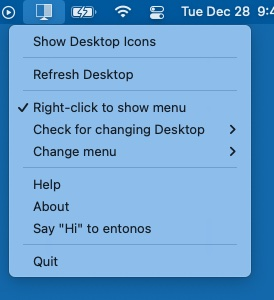
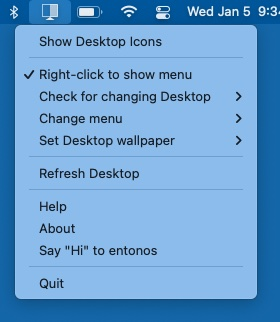
update Help

diff --git a/HideIcons/Resources/HideIcons.help/Contents/Resources/en.lproj/Welcome.html b/HideIcons/Resources/HideIcons.help/Contents/Resources/en.lproj/Welcome.html
@@ -36,11 +36,12 @@
 <img src="Welcome2.jpg" alt="" >
 </p>
 </b><p class="Left Normal"><i>Show Desktop icons</i>/<i>Hide Desktop Icons</i> toggles showing or hiding the Desktop icons.</p>
-</b><p class="Left Normal"><i>Refresh Desktop</i> forces an update of all Desktops across all screens and Spaces. This option will also cause <i>Hide Icons</i> to forget which Desktop goes with which Space (see below). </p>
 </b><p class="Left Normal">If <i>Right-click to show menu</i> is enabled, then clicking on the the menu (<img src="Welcome4.jpg" alt="" >) will toggle Show/Hide Desktop icons and right-click will open the menu. The default is the opposite behavior.
  </p>
 </b><p class="Left Normal">If <i>Check for changing Desktop</i> is set to anything other than <i>Never</i>, <i>Hide Icons</i> will update the Desktop every time interval specified. This allows for changing Desktops.  </p>
 </b><p class="Left Normal"><i>Change menu</i> allows you to hide the menu item (replaces it with a blank icon) or to completely remove the menu from the menu bar. For the latter case, one can still use Services to toggle showing/hiding icons. To get the menu back, simply re-run <i>Hide Icons</i>.  </p>
+</b><p class="Left Normal"><i>Set Desktop wallpaper</i> allows you to use either the actual Desktop wallpaper or to use a custom color wallpaper. Either for all Desktops or for individual Desktops. If you have either more than one display or more than one Space, you have multiple Desktops. </p>
+</b><p class="Left Normal"><i>Refresh Desktop</i> forces an update of all Desktops across all displays and Spaces. This option will also cause <i>Hide Icons</i> to forget which Desktop goes with which Space (see below). This is essentially a restart of <i>Hide Icons</i>. </p>
 <p class="Left Normal">
 
 <p class="Left Normal"><b>2) Services</p>
@@ -57,7 +58,7 @@
 <img src="Welcome5.jpg" alt="" >
 >Change menu>Remove menu was chosen.</p>
 
-<p class="Left Normal">If command key (⌘) is held when <i>Hide Icons</i> starts, the user defined preferences are ignored and default preferences are used instead- useful if you chose an preference you don't like. </p>
+<p class="Left Normal">If command key (⌘) is held when <i>Hide Icons</i> starts, the user defined preferences are overwritten with default preferences- useful if you chose a preference set you don't like. </p>
 
 <p class="Left Normal"><b>4) Requirements</b></p>
 <p class="Left Normal"><i>Hide Icon</i> was written in Swift with Xcode 12.4. It was compiled to support macOS 10.12 (Sierra) through 12.x (Monterey). Versions before 10.4 (High Sierra) can not detect Dark Mode switching.</p>
@@ -66,7 +67,10 @@
 <p class="Left Normal"><i>Hide Icon</i> doesn’t touch the Desktop icons. It simply takes a picture of the Desktop (without the icons) and displays this picture just above the real Desktop giving the illusion that the icons have vanished. THEY HAVE NOT. If you open a Finder window, you can easily navigate to Desktop. From there you can add, remove and manipulate items on the Desktop. You must either Show Desktop Icons or quit <i>Hide Icons</i> to have the usual Desktop back.</p>
 
 <p class="Left Normal">If <i>Check for changing Desktop</i> is set to anything other than <i>Never</i>, then for every time interval specified the picture of the real Desktop is taken to allow for time varying Desktops. Similary, on macOS 10.14 and above,  changes in Appearances (e.g. Dark Mode) are immediately reflected.</p>
-<p class="Left Normal">If you are using multiple Spaces (with any number of screens), <i>Hide Icons</i> doesn't actually know which Desktop goes with which Space. However, once you visit that space, <i>Hide Icons</i> will remember that Desktop goes with that Space. Until it does, switching Spaces may temporarily display the wrong Desktop. Selecting <i>Refresh Desktop</i> will force <i>Hide Icons</i> to forget these correlations.  </p>
+<p class="Left Normal">If you are using multiple Spaces (with any number of displays), <i>Hide Icons</i> doesn't actually know which Desktop goes with which Space. However, once you visit that Space, <i>Hide Icons</i> will remember that Desktop goes with that Space. Until it does, switching Spaces may temporarily display the wrong Desktop. Selecting <i>Refresh Desktop</i> will force <i>Hide Icons</i> to forget these correlations.  </p>
+<p class="Left Normal"><i>Set Desktop wallpaper</i> will determine <i>This Desktop</i> according to where the last mouse click was performed. This may cause some difficulties if <i>Displays have separate Spaces</i> is unchecked in <i>System Preferences...>Mission Control</i>. Simply drag the Color Panel to the Desktop of the Space which does not have a menu bar and then select a custom color for wallpaper. Finally, the menu bar is <i>always</i> tinted according to the actual Desktop. You can turn off tinting by enabling <i>System Preferences...>Accessibility>Display>Display>Reduce transparency</i>. </p>
+
+<p class="Left Normal">On macOS 11.6.2 (Big Sur), the Desktop icons will flash when changing Spaces. This is a bug introduced by Apple and currently no workaround is known. Monterey or earlier versions of macOS do not exhibit this behavior. </p>
 
 <p class="Left Normal"><b>6) Warning/Disclaimer/Licenses</b></p>
 <p class="Left Normal">Using this application won’t make you more attractive or get you rich. Regardless, Hide Icons will never affect your Desktop icons.  </p>

diff --git a/HideIcons/Resources/HideIcons.help/Contents/Resources/en.lproj/Contact_and_version_hist.html b/HideIcons/Resources/HideIcons.help/Contents/Resources/en.lproj/Contact_and_version_hist.html
@@ -18,10 +18,11 @@
 <p class="Left Normal">Hide Icons’ home is located at http://www.parker9.com/script.html. Furthermore, email can be sent to HideIcon@parker9.com</p>
 
 <p class="Left Normal">Version History</p>
+<p class="Left Normal">— 5 January 2022, v1.5- New menu option to set Desktop wallpaper- either for all or individual Desktops.</p>
 <p class="Left Normal">— 1 January 2022, v1.4.2- New menu option to set time interval to refresh Desktop to allow for changing Desktops. Refactoring of code and support for Monterey.</p>
 <p class="Left Normal">— 21 December 2021, v1.3- New menu option to refresh Desktop; bug fix for when a Display sleeps (can return a gray Desktop under Big Sur and later).</p>
 <p class="Left Normal">— 12 August 2021, v1.2- Left-click shows menu while right-click toggles icons; option to reverse click behavior; memorize user preferences.</p>
-<p class="Left Normal">— 13 May 2021, v1.1.1- Bug fix so we don't forget Desktop and Screen pairings if icons are shown.</p>
+<p class="Left Normal">— 13 May 2021, v1.1.1- Bug fix so we don't forget Desktop and display pairings if icons are shown.</p>
 <p class="Left Normal">— 4 May 2021, v1.1- Icons won't flash when entering Exposé; learns which Desktop goes with which Space; add About menu; when started by Service do not display menu.</p>
 <p class="Left Normal">— 30 April 2021, v1.0- Initial release.</p>
 
